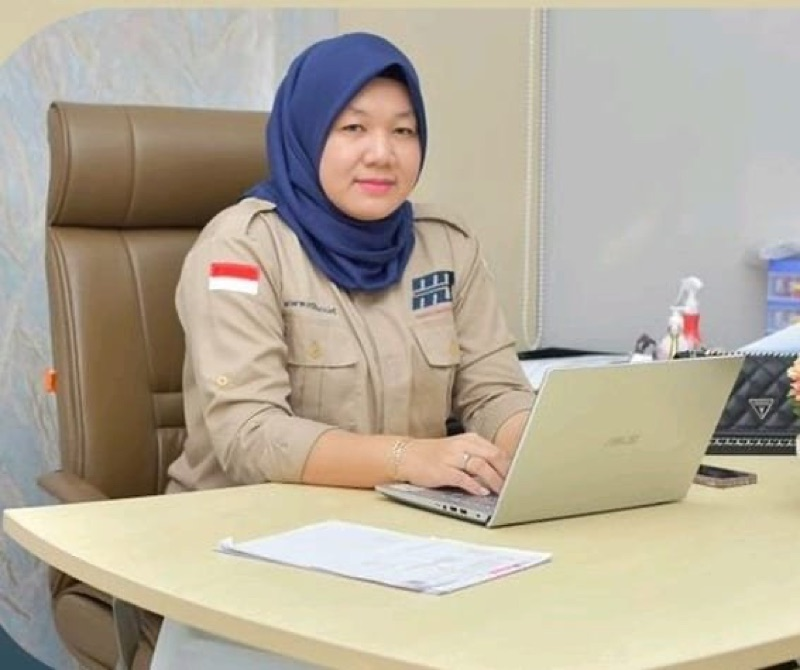
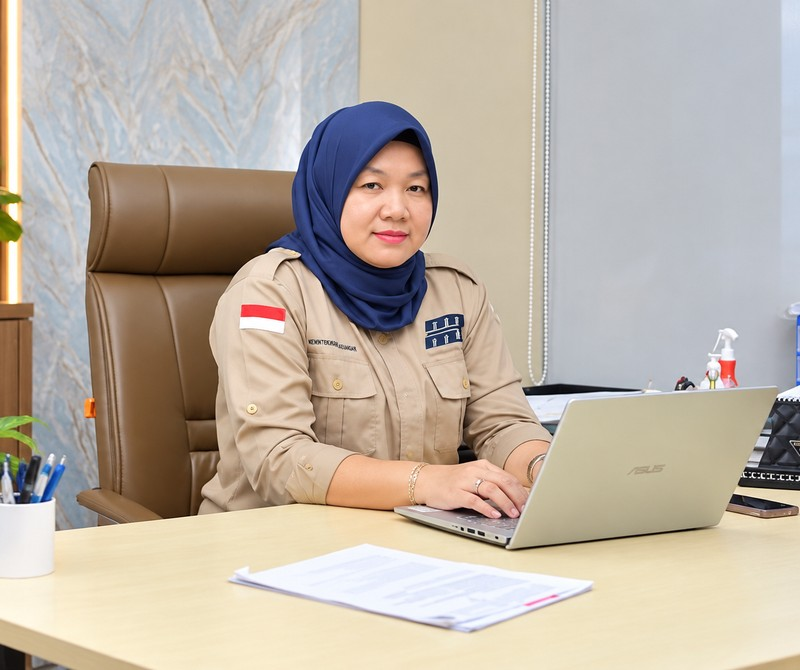
fix: replace director portrait while preserving existing layout

diff --git a/resources/views/pages/home.blade.php b/resources/views/pages/home.blade.php
@@ -1536,8 +1536,8 @@
     <div style="position:relative">
       <div style="border-radius:16px;overflow:hidden;aspect-ratio:4/5;border:1px solid #e5e2dc;box-shadow:0 16px 48px rgba(0,0,0,0.12);position:relative">
         <picture style="display:block;width:100%;height:100%">
-          <source srcset="{{ asset('images/director-eka.webp') }}" type="image/webp">
-          <img src="{{ asset('images/director-eka.jpg') }}" alt="Eka Mayang Sari Harahap, S.E." style="width:100%;height:100%;object-fit:cover;object-position:center top;display:block">
+          <source srcset="{{ asset('images/director-eka.webp').'?v=20261025' }}" type="image/webp">
+          <img src="{{ asset('images/director-eka.jpg').'?v=20261025' }}" alt="Eka Mayang Sari Harahap, S.E." style="width:100%;height:100%;object-fit:cover;object-position:center top;display:block">
         </picture>
         <div style="position:absolute;bottom:0;left:0;right:0;background:linear-gradient(to top,rgba(11,17,32,0.8),transparent);padding:20px 18px 16px">
           <div style="font-family:Syne;font-weight:800;font-size:14px;color:#fff">Eka Mayang Sari Harahap, S.E.</div>

diff --git a/resources/views/pages/about.blade.php b/resources/views/pages/about.blade.php
@@ -32,8 +32,8 @@
       {{-- Director photo --}}
       <div style="border-radius:16px;overflow:hidden;aspect-ratio:4/5;box-shadow:0 16px 48px rgba(0,0,0,0.14);position:relative">
         <picture style="display:block;width:100%;height:100%">
-          <source srcset="{{ asset('images/director-eka.webp') }}" type="image/webp">
-          <img src="{{ asset('images/director-eka.jpg') }}"
+          <source srcset="{{ asset('images/director-eka.webp').'?v=20261025' }}" type="image/webp">
+          <img src="{{ asset('images/director-eka.jpg').'?v=20261025' }}"
                alt="Eka Mayang Sari Harahap, S.E. — Direktur PT. Mora Multi Berkah"
                style="width:100%;height:100%;object-fit:cover;object-position:center top;display:block">
         </picture>
